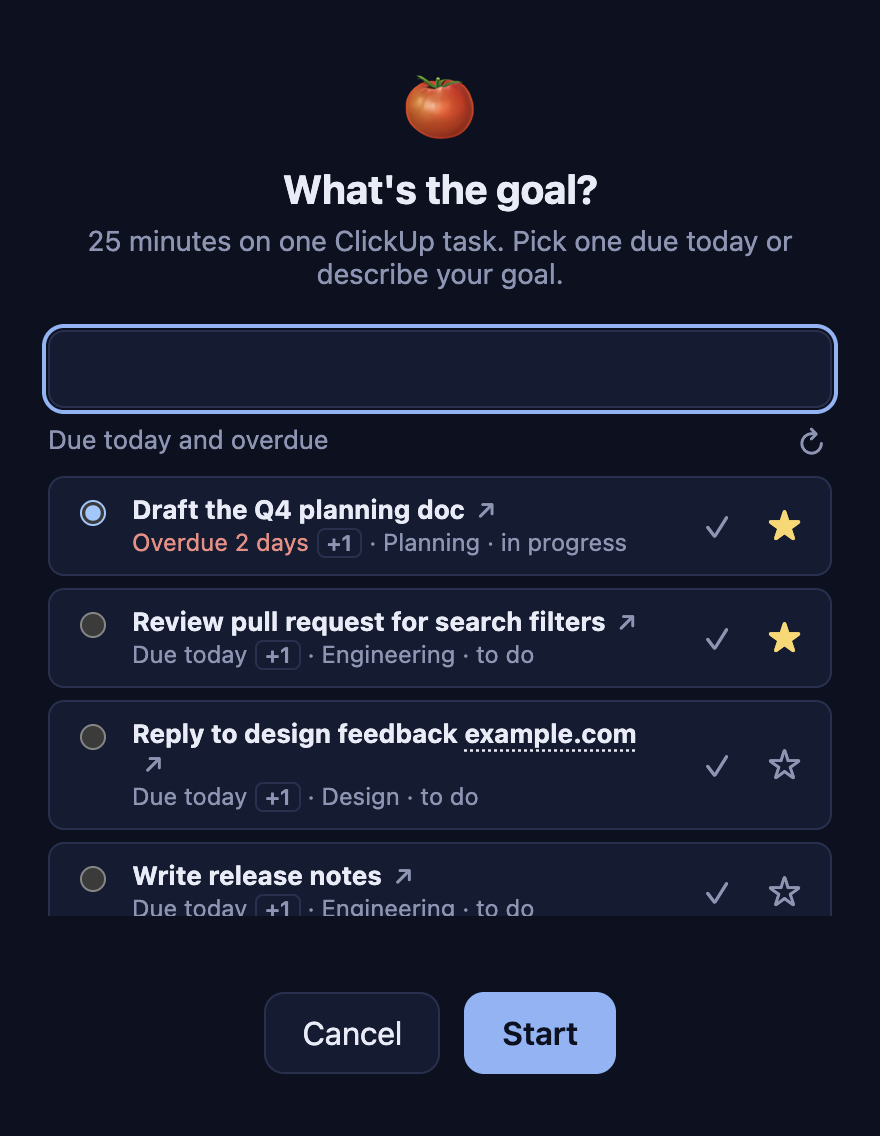
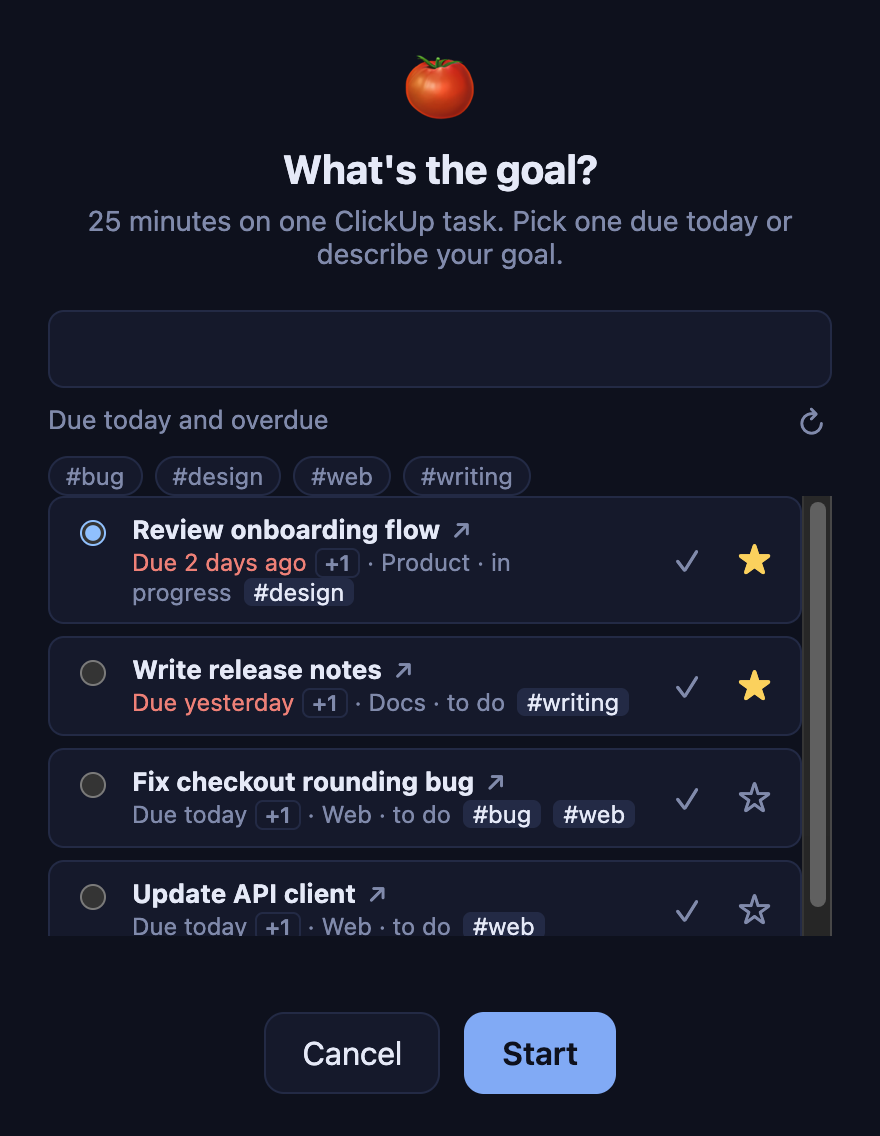
feat: list every task due by today and filter them by tag
The due-today list pages through ClickUp until the last page instead of
stopping at 3 pages and showing 10. Tasks show their tags, and tag chips
above the list filter what is already shown, without another request.

Version 1.17.0.

diff --git a/src/clickup.js b/src/clickup.js
@@ -1,7 +1,8 @@
 const API = 'https://api.clickup.com/api/v2';
 const SEARCH_PAGES = 3;
+// Due tasks are paged to the end; this only stops a runaway loop if ClickUp never reports the last page.
+const DUE_PAGES = 50;
 const MAX_MATCHES = 5;
-const MAX_DUE = 10;
 const DAY_MS = 24 * 60 * 60 * 1000;
 const REQUEST_TIMEOUT_MS = 10000;
 const TASKS_TTL_MS = 60 * 1000;
@@ -52,6 +53,7 @@ const toTask = (raw) => ({
   status: raw.status?.status ?? '',
   due: raw.due_date ? Number(raw.due_date) : null,
   priority: Number(raw.priority?.id) || null,
+  tags: (raw.tags ?? []).map((tag) => String(tag?.name ?? '').toLowerCase()).filter(Boolean),
 });
 
 const startOfDay = (date, offsetDays = 0) =>
@@ -67,7 +69,6 @@ const dueTasks = (tasks, now) =>
   tasks
     .filter((task) => isDueByToday(task.due, now))
     .sort(byDue)
-    .slice(0, MAX_DUE)
     .sort(byPriority);
 
 const RELATIVE = new Intl.RelativeTimeFormat('en', { numeric: 'auto' });
@@ -82,11 +83,12 @@ const relativeDue = (due, now) => {
 
 const isDueByToday = (due, now) => due !== null && due < startOfDay(now, 1);
 
-const toListItem = ({ id, name, list, status, due, priority }, now) => ({
+const toListItem = ({ id, name, list, status, due, priority, tags = [] }, now) => ({
   id,
   name,
   list,
   status,
+  tags,
   dueLabel: due === null ? '' : relativeDue(due, now),
   overdue: due !== null && due < startOfDay(now),
   postponable: isDueByToday(due, now),
@@ -154,10 +156,10 @@ const createClient = ({ token, teamId, listId }, fetchImpl = fetch, clock = Date
 
   const me = async () => (userId ??= (await request('/user')).user.id);
 
-  const fetchAssignedTasks = async (filter) => {
+  const fetchAssignedTasks = async (filter, pages) => {
     const id = await me();
     const tasks = [];
-    for (let page = 0; page < SEARCH_PAGES; page++) {
+    for (let page = 0; page < pages; page++) {
       const result = await request(assignedTasksPath(teamId, id, page, filter));
       tasks.push(...(result.tasks ?? []).filter(isOpenTask).map(toTask));
       if (result.last_page !== false) break;
@@ -166,10 +168,10 @@ const createClient = ({ token, teamId, listId }, fetchImpl = fetch, clock = Date
   };
 
   // Search runs on every pause in typing, so reuse the task list for a minute instead of paging through it each time.
-  const assignedTasks = (filter) => {
+  const assignedTasks = (filter, pages = SEARCH_PAGES) => {
     const cached = cache.get(filter);
     if (cached && clock() - cached.at < TASKS_TTL_MS) return cached.tasks;
-    const entry = { at: clock(), tasks: fetchAssignedTasks(filter) };
+    const entry = { at: clock(), tasks: fetchAssignedTasks(filter, pages) };
     entry.tasks.catch(() => cache.get(filter) === entry && cache.delete(filter));
     cache.set(filter, entry);
     return entry.tasks;
@@ -181,7 +183,7 @@ const createClient = ({ token, teamId, listId }, fetchImpl = fetch, clock = Date
     searchTasks: async (query, now = new Date()) =>
       words(query).length
         ? matchTasks(query, await assignedTasks())
-        : dueTasks(await assignedTasks(dueFilter(now)), now),
+        : dueTasks(await assignedTasks(dueFilter(now), DUE_PAGES), now),
     createTask: async (title, now) => {
       const task = toTask(
         await request(`/list/${listId}/task`, { method: 'POST', body: JSON.stringify(newTaskBody(title, await me(), now)) }),
@@ -225,7 +227,6 @@ const createClient = ({ token, teamId, listId }, fetchImpl = fetch, clock = Date
 
 module.exports = {
   MAX_MATCHES,
-  MAX_DUE,
   TASKS_TTL_MS,
   isValidToken,
   isOpenTask,

diff --git a/test/clickup.test.js b/test/clickup.test.js
@@ -2,7 +2,6 @@ const test = require('node:test');
 const assert = require('node:assert/strict');
 const {
   MAX_MATCHES,
-  MAX_DUE,
   TASKS_TTL_MS,
   isValidToken,
   isOpenTask,
@@ -13,6 +12,7 @@ const {
   words,
   matchTasks,
   dueTasks,
+  toTask,
   relativeDue,
   toListItem,
   assignedTasksPath,
@@ -115,8 +115,8 @@ test('dueTasks keeps overdue and today, earliest first', () => {
     task('yesterday', 'E', day(-1)),
   ];
   assert.deepEqual(dueTasks(tasks, now).map(({ id }) => id), ['late', 'yesterday', 'today']);
-  const many = Array.from({ length: 15 }, (_, i) => task(String(i), 'X', day(-i)));
-  assert.equal(dueTasks(many, now).length, MAX_DUE);
+  const many = Array.from({ length: 150 }, (_, i) => task(String(i), 'X', day(-i)));
+  assert.equal(dueTasks(many, now).length, 150);
 });
 
 test('relativeDue counts calendar days, then weeks and months', () => {
@@ -135,6 +135,7 @@ test('toListItem adds the due label and flags overdue tasks only', () => {
     name: 'A',
     list: 'Inbox',
     status: 'to do',
+    tags: [],
     dueLabel: 'Due 2 days ago',
     overdue: true,
     postponable: true,
@@ -199,8 +200,8 @@ test('searchTasks looks up me once and pages through my tasks', async () => {
   const client = createClient(ids, fetchImpl);
   const found = await client.searchTasks('login');
   assert.deepEqual(found, [
-    { id: '1', name: 'Fix login bug', url: 'u1', list: 'Web', status: '', due: null, priority: null },
-    { id: '2', name: 'Login copy', url: 'u2', list: '', status: '', due: null, priority: null },
+    { id: '1', name: 'Fix login bug', url: 'u1', list: 'Web', status: '', due: null, priority: null, tags: [] },
+    { id: '2', name: 'Login copy', url: 'u2', list: '', status: '', due: null, priority: null, tags: [] },
   ]);
   await client.searchTasks('login');
   assert.equal(calls.filter(({ url }) => url.endsWith('/user')).length, 1);
@@ -217,6 +218,25 @@ test('an empty goal lists tasks due by tomorrow from ClickUp', async () => {
   const found = await createClient(ids, fetchImpl).searchTasks('', now);
   assert.deepEqual(found.map(({ id }) => id), ['1', '2']);
   assert.ok(calls.some(({ url }) => url.includes(dueFilter(now))));
+});
+
+test('due tasks are paged to the last page', async () => {
+  const pageOf = (url) => Number(/page=(\d+)/.exec(url)[1]);
+  const { calls, fetchImpl } = fakeFetch([
+    [/\/user$/, () => ({ user: { id: 7 } })],
+    [
+      /due_date_lt=/,
+      (url) => ({ tasks: [{ id: pageOf(url), name: 'Due', due_date: String(day(-1)) }], last_page: pageOf(url) === 5 }),
+    ],
+  ]);
+  const found = await createClient(ids, fetchImpl).searchTasks('', now);
+  assert.equal(found.length, 6);
+  assert.equal(calls.filter(({ url }) => url.includes('page=')).length, 6);
+});
+
+test('toTask reads tag names in lowercase', () => {
+  assert.deepEqual(toTask({ id: 1, name: 'A', tags: [{ name: 'Bug' }, { name: '' }, {}] }).tags, ['bug']);
+  assert.deepEqual(toTask({ id: 1, name: 'A' }).tags, []);
 });
 
 test('the task list is reused for a minute and refetched after a new task', async () => {

diff --git a/src/renderer/pomodoro.js b/src/renderer/pomodoro.js
@@ -12,6 +12,7 @@ let searchTimer = null;
 let searchId = 0;
 let pendingSearch = null;
 let shownTasks = [];
+let tagFilter = null;
 
 const goalName = () => goal.replace(HASHTAG, ' ').replace(/\s+/g, ' ').trim();
 const goalTags = () => [...new Set([...goal.matchAll(HASHTAG)].map((match) => match[2].toLowerCase()))];
@@ -38,6 +39,7 @@ const details = (task) => {
     ...[task.list, task.status].filter(Boolean).map((text) => span('muted', text)),
   ];
   parts.forEach((part, index) => small.append(...(index ? [span('muted', ' · '), part] : [part])));
+  small.append(...(task.tags ?? []).map((tag) => span('tag', `#${tag}`)));
   return small;
 };
 
@@ -100,7 +102,33 @@ const newTaskDetail = () => {
   return small;
 };
 
-const renderTasks = (tasks, preferred = selected()) => {
+const shownTags = () => [...new Set(shownTasks.flatMap((task) => task.tags ?? []))].sort();
+
+const renderTagFilter = () => {
+  const tags = shownTags();
+  if (!tags.includes(tagFilter)) tagFilter = null;
+  $('tag-filter').classList.toggle('hidden', !tags.length);
+  $('tag-filter').replaceChildren(
+    ...tags.map((tag) => {
+      const button = Object.assign(document.createElement('button'), {
+        type: 'button',
+        className: tag === tagFilter ? 'chip active' : 'chip',
+        textContent: `#${tag}`,
+        title: tag === tagFilter ? 'Show all tasks' : `Show only #${tag}`,
+      });
+      button.setAttribute('aria-pressed', String(tag === tagFilter));
+      button.addEventListener('click', () => {
+        tagFilter = tag === tagFilter ? null : tag;
+        renderTasks(shownTasks);
+      });
+      return button;
+    }),
+  );
+};
+
+const renderTasks = (allTasks, preferred = selected()) => {
+  renderTagFilter();
+  const tasks = tagFilter ? allTasks.filter((task) => task.tags?.includes(tagFilter)) : allTasks;
   const offerNew = hasGoal() && !tasks.some(sameName);
   const fallback = tasks[0]?.id ?? (offerNew ? NEW_TASK : null);
   const keep = tasks.some((task) => task.id === preferred) || (offerNew && preferred === NEW_TASK) ? preferred : fallback;

diff --git a/src/renderer/styles.css b/src/renderer/styles.css
@@ -183,6 +183,9 @@ textarea:focus { outline: 2px solid var(--accent); outline-offset: 1px; }
 .pomodoro .search-row .search-status { flex: 1; }
 .pomodoro #refresh { padding: 0 4px; border: none; background: none; color: var(--muted); font-size: 16px; line-height: 1; }
 .pomodoro #refresh:hover:not(:disabled) { color: var(--accent); }
+.pomodoro .tag-filter { display: flex; flex-wrap: wrap; gap: 6px; }
+.pomodoro .tag-filter .chip { padding: 2px 8px; border: 1px solid var(--border); border-radius: 999px; background: var(--panel); color: var(--muted); font-size: 12px; }
+.pomodoro .tag-filter .chip.active { border-color: var(--accent); background: var(--accent); color: var(--bg); }
 .task .due { color: var(--muted); }
 .task .due.overdue { color: var(--danger); }
 .task .tag { margin-left: 6px; padding: 0 5px; border-radius: 4px; background: var(--border); color: var(--text); }

diff --git a/src/renderer/pomodoro.html b/src/renderer/pomodoro.html
@@ -22,6 +22,7 @@
           <p class="muted search-status" id="search-status"></p>
           <button type="button" id="refresh" title="Refresh tasks" aria-label="Refresh tasks">↻</button>
         </div>
+        <div class="tag-filter hidden" id="tag-filter"></div>
         <div class="task-list" id="tasks"></div>
         <p class="error" id="error"></p>
         <div class="actions">

diff --git a/AGENTS.md b/AGENTS.md
@@ -135,8 +135,10 @@ npm run dist     # unsigned macOS .dmg in dist/ (CSC_IDENTITY_AUTO_DISCOVERY=fal
 - **Pomodoro** (`state.pomodoro`: `phase`, `until`, `task`) starts from the tray's **Start Pomodoro…** or the global
   shortcut `POMODORO_SHORTCUT` (⌥⌘P, `showPomodoro`: shows the timer while a pomodoro is active, does nothing while
   locked), which opens `renderer/pomodoro.html`. It opens on tasks due today or overdue
-  (`searchTasks` with no searchable words fetches with `dueFilter`, then `dueTasks`); every listed task carries a
-  relative due label (`toListItem`). Otherwise a goal is required: as it is typed, `pomodoro:search` (debounced 400 ms in the renderer) lists
+  (`searchTasks` with no searchable words fetches with `dueFilter` through every page, up to `DUE_PAGES`, then `dueTasks`,
+  uncapped); every listed task carries a relative due label and its lowercase tag names (`toTask`, `toListItem`).
+  Tag chips above the list (`renderTagFilter` in `pomodoro.js`) filter the shown tasks in the renderer only, with no
+  ClickUp call; a filter whose tag is gone after a new search is dropped. Otherwise a goal is required: as it is typed, `pomodoro:search` (debounced 400 ms in the renderer) lists
   ClickUp tasks assigned to the token's user (done and closed ones dropped by `isOpenTask`) in `config.clickupTeamId` that share a word with it; `createClient` reuses the assigned-task
   list for `TASKS_TTL_MS`. `pomodoro:start` takes a `taskId` from any search shown in the window (`pomodoroMatches`, a
   Map in main, since searches can resolve out of order) or `create`s a task in `config.clickupListId` (no defaults; `clickupReady` needs a token and workspace), assigned to the user

diff --git a/README.md b/README.md
@@ -49,7 +49,8 @@ works. End it early from the menu bar (it still counts as today's use).
 
 <img src="docs/screenshots/pomodoro.png" alt="Pomodoro task picker" width="320" align="right" />
 
-**Start Pomodoro…** in the menu bar (or **⌥⌘P** from anywhere) opens on your ClickUp tasks due today and overdue. Pick one, or type a goal: Focus
+**Start Pomodoro…** in the menu bar (or **⌥⌘P** from anywhere) opens on all your ClickUp tasks due today and overdue. Tags show on each task, and the tag chips above the list
+show only the tasks with that tag (click again for all). Pick one, or type a goal: Focus
 searches the tasks assigned to you as you type and offers a new one (assigned to you, due today): **Create** just adds
 it to ClickUp, **Create and start** also starts the pomodoro. The star on a task sets or clears its high priority in
 ClickUp, and tasks are listed by priority. **+1** after a due date moves the task to tomorrow, and **↗** opens it in

diff --git a/CHANGELOG.md b/CHANGELOG.md
@@ -3,6 +3,18 @@
 All notable changes to this project are documented here. The format follows
 [Keep a Changelog](https://keepachangelog.com/en/1.1.0/), and versions follow [Semantic Versioning](https://semver.org).
 
+## [1.17.0] - 2026-11-26
+
+### Added
+
+- The pomodoro picker shows each task's ClickUp tags, and tag chips above the list filter the shown tasks without
+  asking ClickUp again.
+
+### Changed
+
+- Tasks due today and overdue are fetched page by page until ClickUp has no more, and all of them are listed (it was
+  10).
+
 ## [1.16.0] - 2026-11-24
 
 ### Changed
